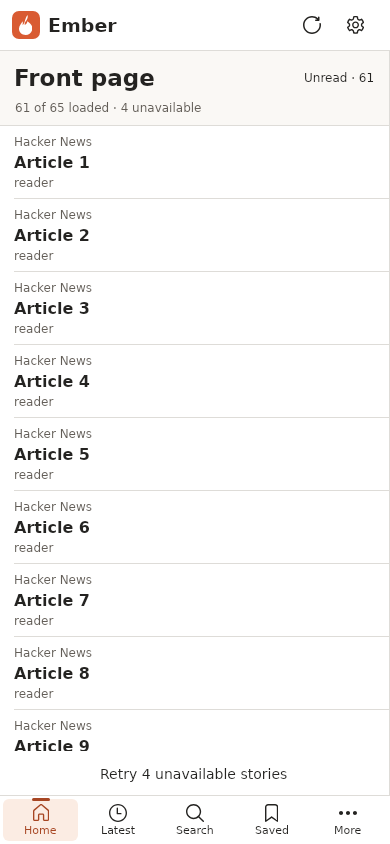
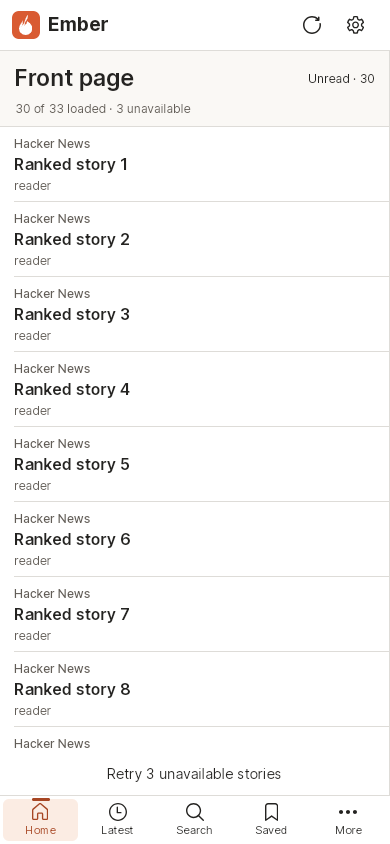
Show verified Wasm feed recovery and live multilingual text in the gallery

diff --git a/docs/ember.md b/docs/ember.md
@@ -12,14 +12,14 @@ together. A compact window presents one pane at a time with bottom navigation.
 
 ## Rendered screens
 
-All previews use deterministic Hacker News data. Chromium captured the release WebAssembly reading and swipe interactions, discussion search, code tools, Downloads, and storage and mute controls. The native test host rendered the other views with Skia and HarfBuzz.
+All previews use deterministic Hacker News data. Chromium captured the release WebAssembly reading and swipe interactions, partial feed recovery, search corrections, multilingual text, code tools, Downloads, and storage and mute controls. The native test host rendered the other views with Skia and HarfBuzz.
 
 ![Ember in the light desktop theme](images/ember-desktop-light.png)
 
 | View | Previews |
 | --- | --- |
 | Reading | [Reading desk](images/ember-tablet-reading-desk.png) · [Dark desktop](images/ember-desktop-dark.png) · [Phone feed](images/ember-phone-dark.png) · [Compact feed](images/ember-compact-feed.png) · [Retry unavailable stories](images/ember-feed-recovery.png) · [Swipe preview](images/ember-swipe-preview.png) · [Landscape reader](images/ember-landscape-reader.png) · [Custom tablet theme](images/ember-tablet-custom.png) |
-| Discussions | [Phone discussion](images/ember-phone-comments.png) · [Sibling reply navigation](images/ember-reply-navigation.png) · [Focus reading with Find](images/ember-focus-find.png) · [Read in context on phone](images/ember-find-context-phone.png) · [Read in context on desktop](images/ember-find-context-desktop.png) · [New replies](images/ember-new-replies.png) · [Code tools](images/ember-code-tools.png) · [Search this discussion](images/ember-discussion-search.png) |
+| Discussions | [Phone discussion](images/ember-phone-comments.png) · [Multilingual discussion and editor](images/ember-multilingual-reader.png) · [Sibling reply navigation](images/ember-reply-navigation.png) · [Focus reading with Find](images/ember-focus-find.png) · [Read in context on phone](images/ember-find-context-phone.png) · [Read in context on desktop](images/ember-find-context-desktop.png) · [New replies](images/ember-new-replies.png) · [Code tools](images/ember-code-tools.png) · [Search this discussion](images/ember-discussion-search.png) |
 | Discovery and library | [Open a permalink](images/ember-open-link.png) · [Author profile](images/ember-desktop-profile.png) · [Correct a username](images/ember-profile-correction.png) · [Explore on a phone](images/ember-phone-explore.png) · [Downloaded shelf](images/ember-phone-downloaded.png) · [Find in a collection](images/ember-library-find.png) |
 | Preferences | [Custom appearance](images/ember-tablet-settings.png) · [Text presets](images/ember-text-presets.png) · [Preference draft](images/ember-preference-draft.png) · [Domain mute on a phone](images/ember-domain-mute.png) · [Discard mute edits](images/ember-mute-drafts.png) · [Offline storage](images/ember-offline-storage.png) · [Background download](images/ember-offline-progress.png) |
 
